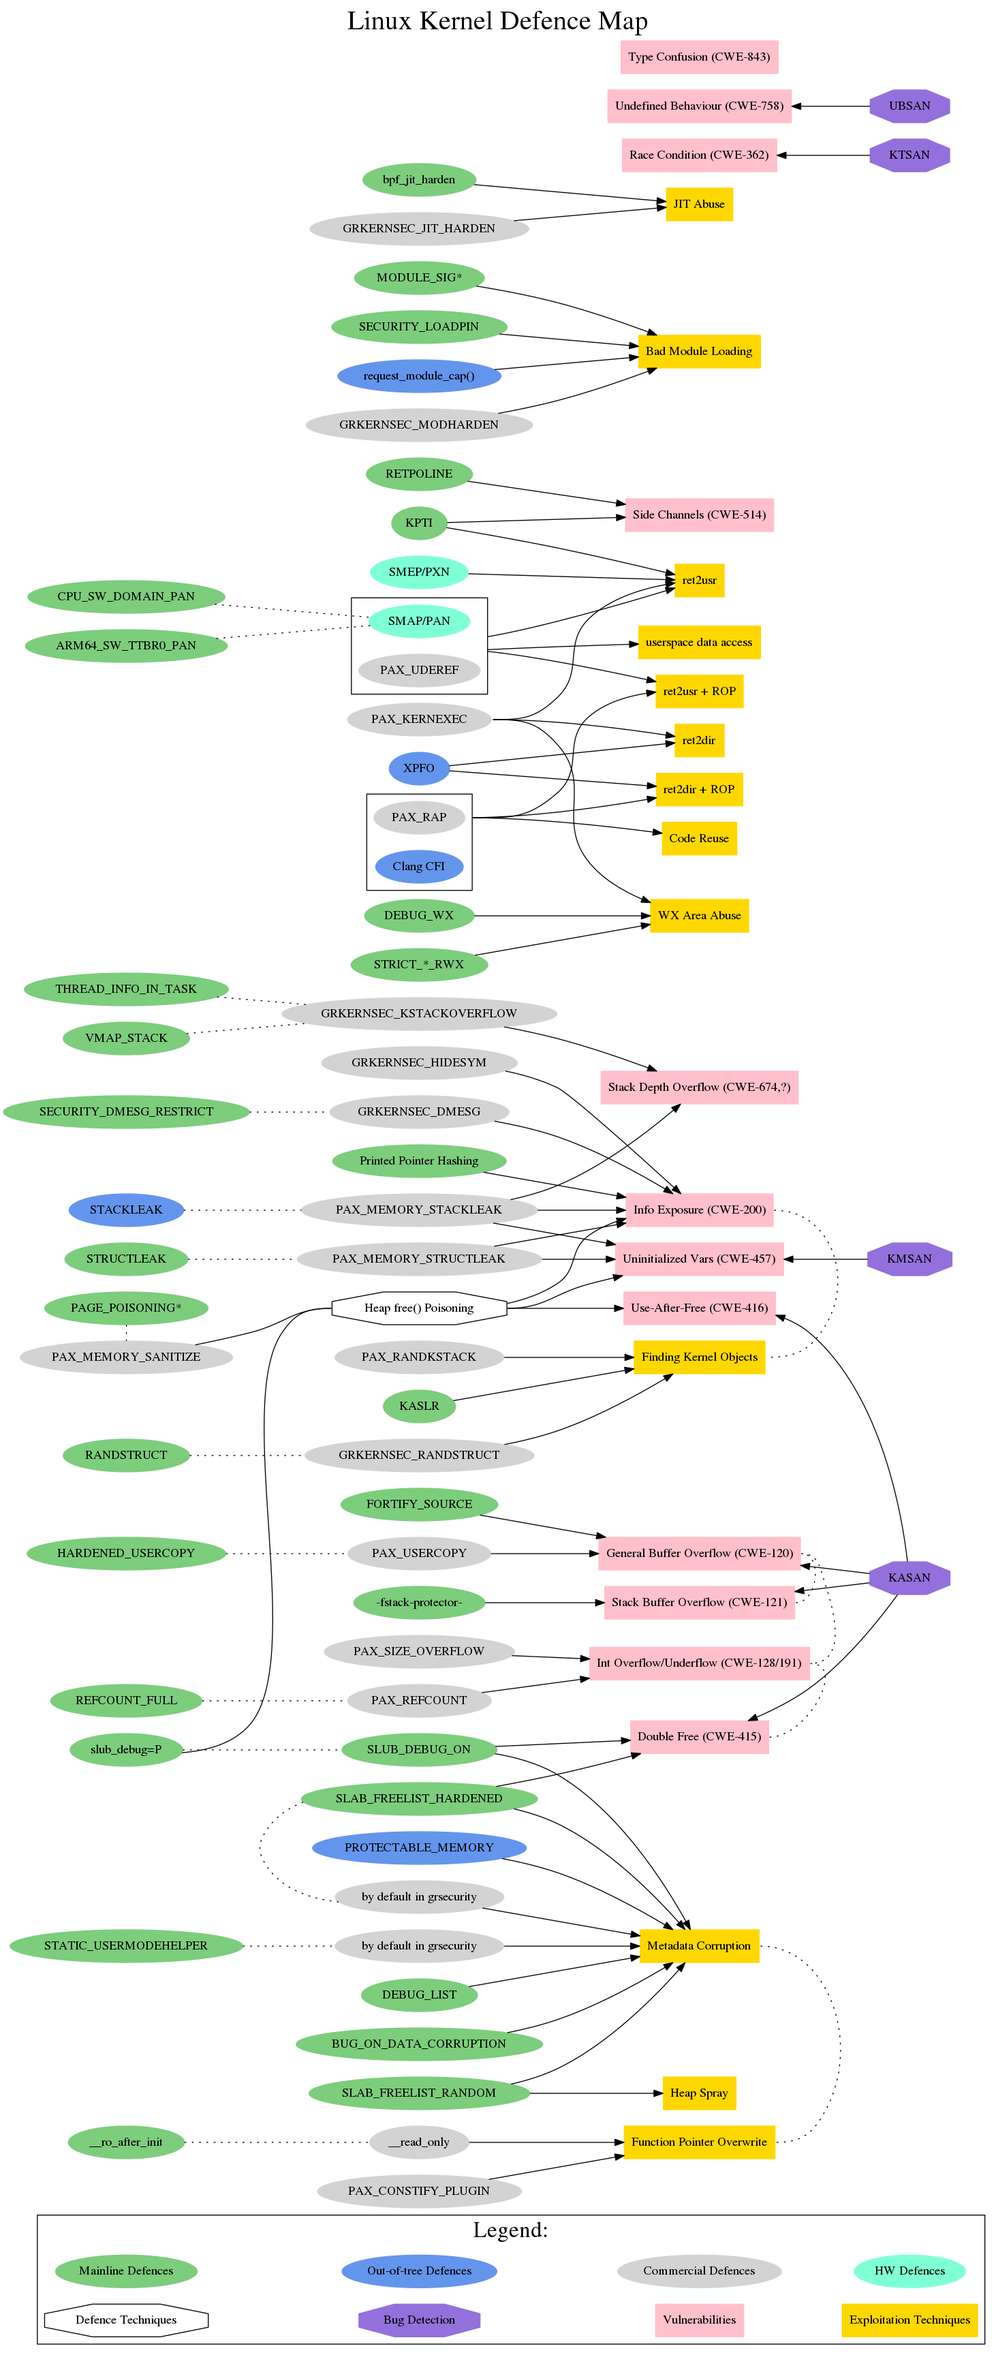
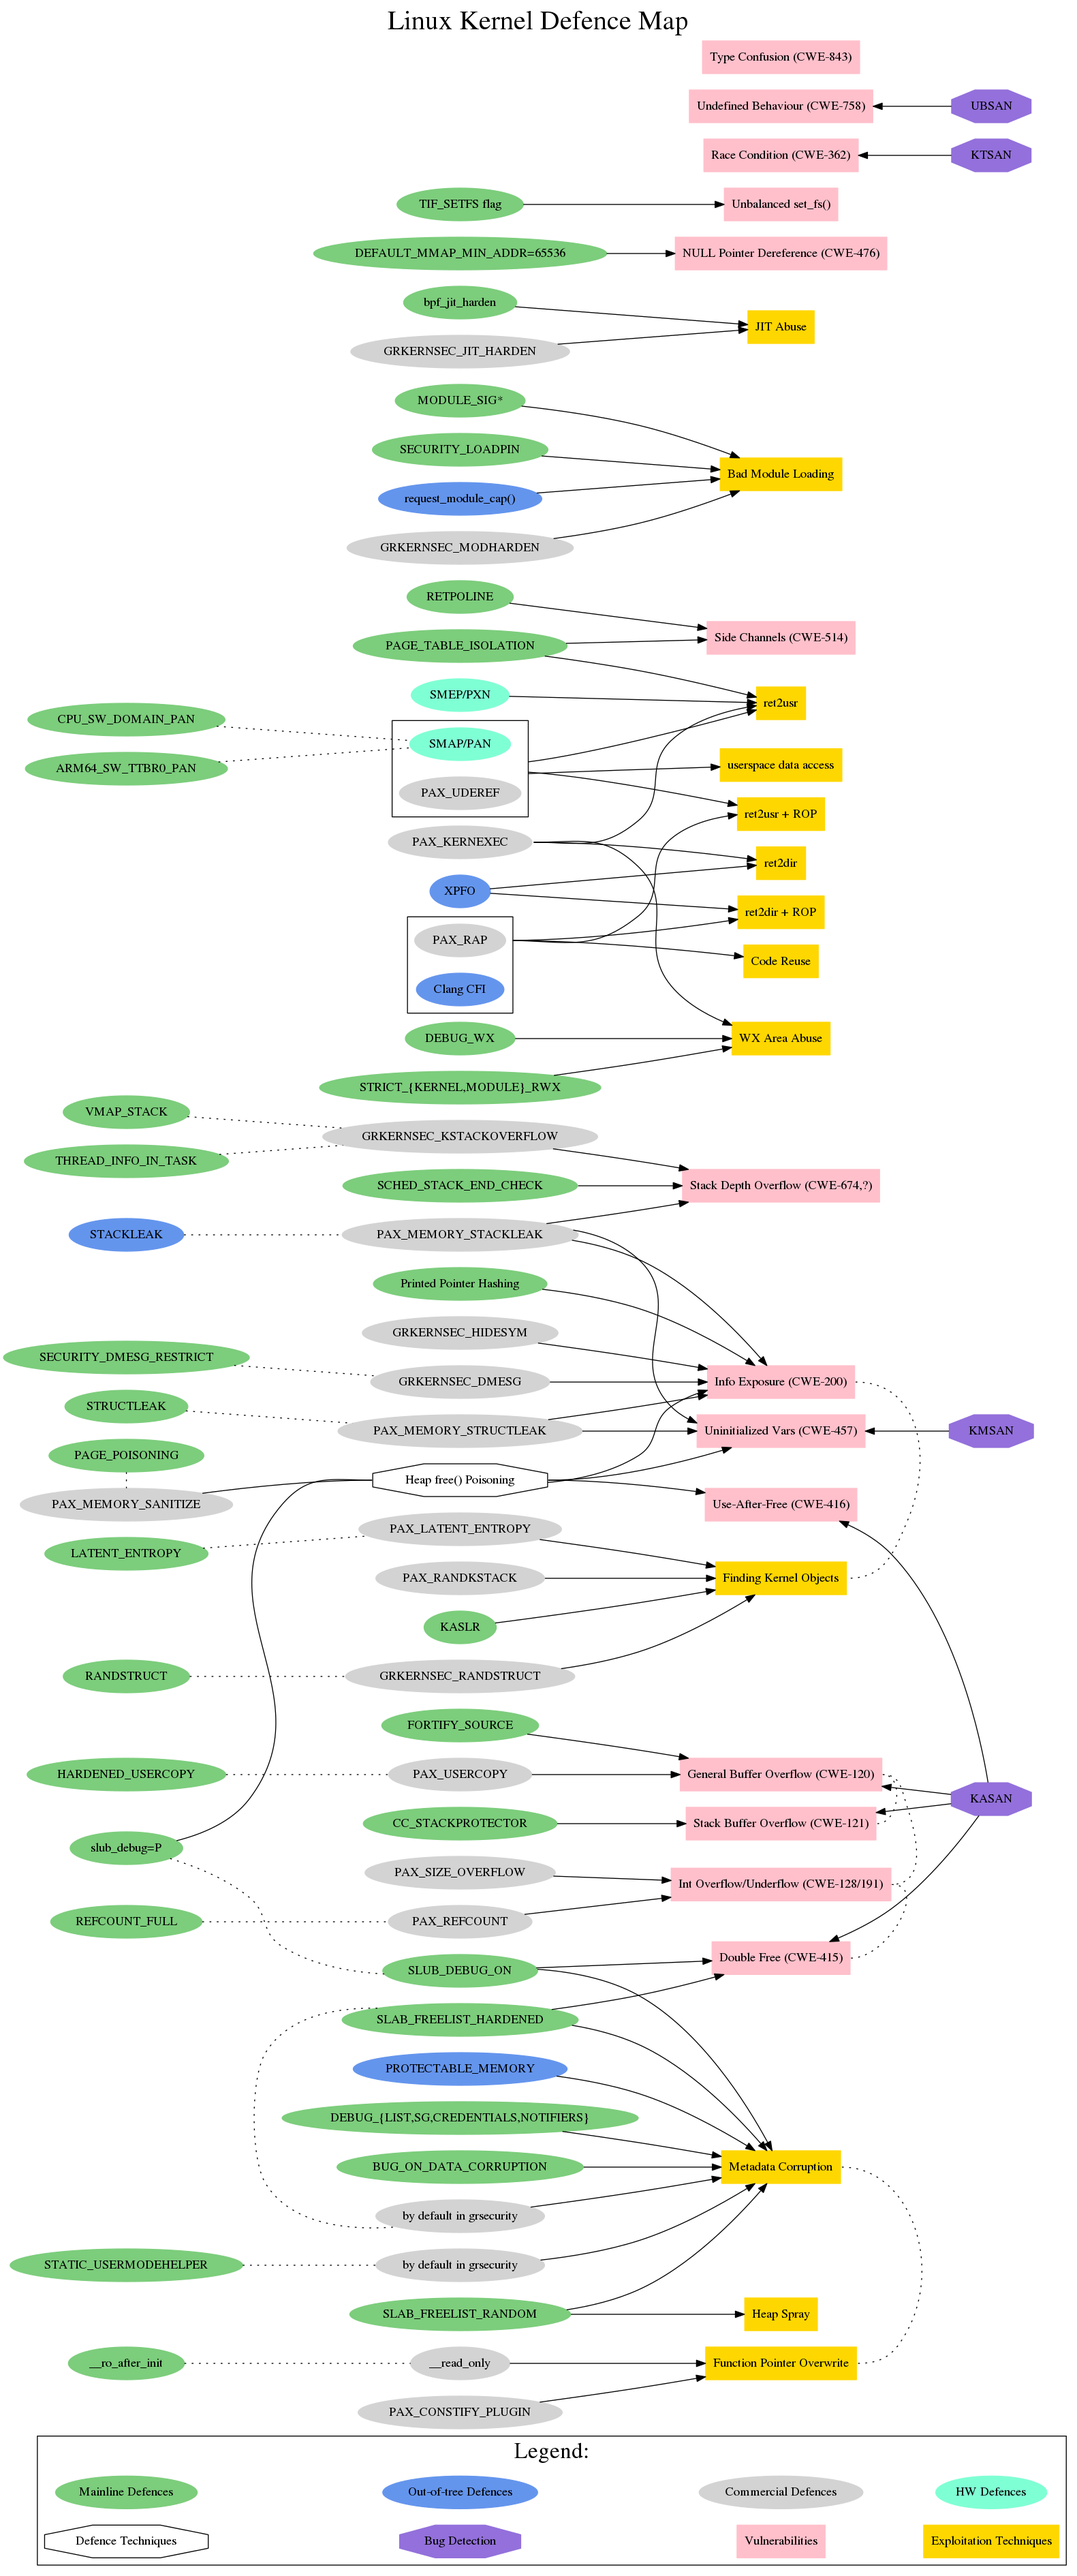
Update png and README

diff --git a/README.md b/README.md
@@ -35,7 +35,7 @@ https://www.kernel.org/doc/html/latest/security/self-protection.html
 - Linux kernel mitigation checklist by Shawn C:
 https://github.com/hardenedlinux/grsecurity-101-tutorials/blob/master/kernel_mitigation.md
 
-## The Map for v4.16
+## The Map for v4.17
 
 ![Linux Kernel Defence Map](./linux-kernel-defence-map.png)
 
